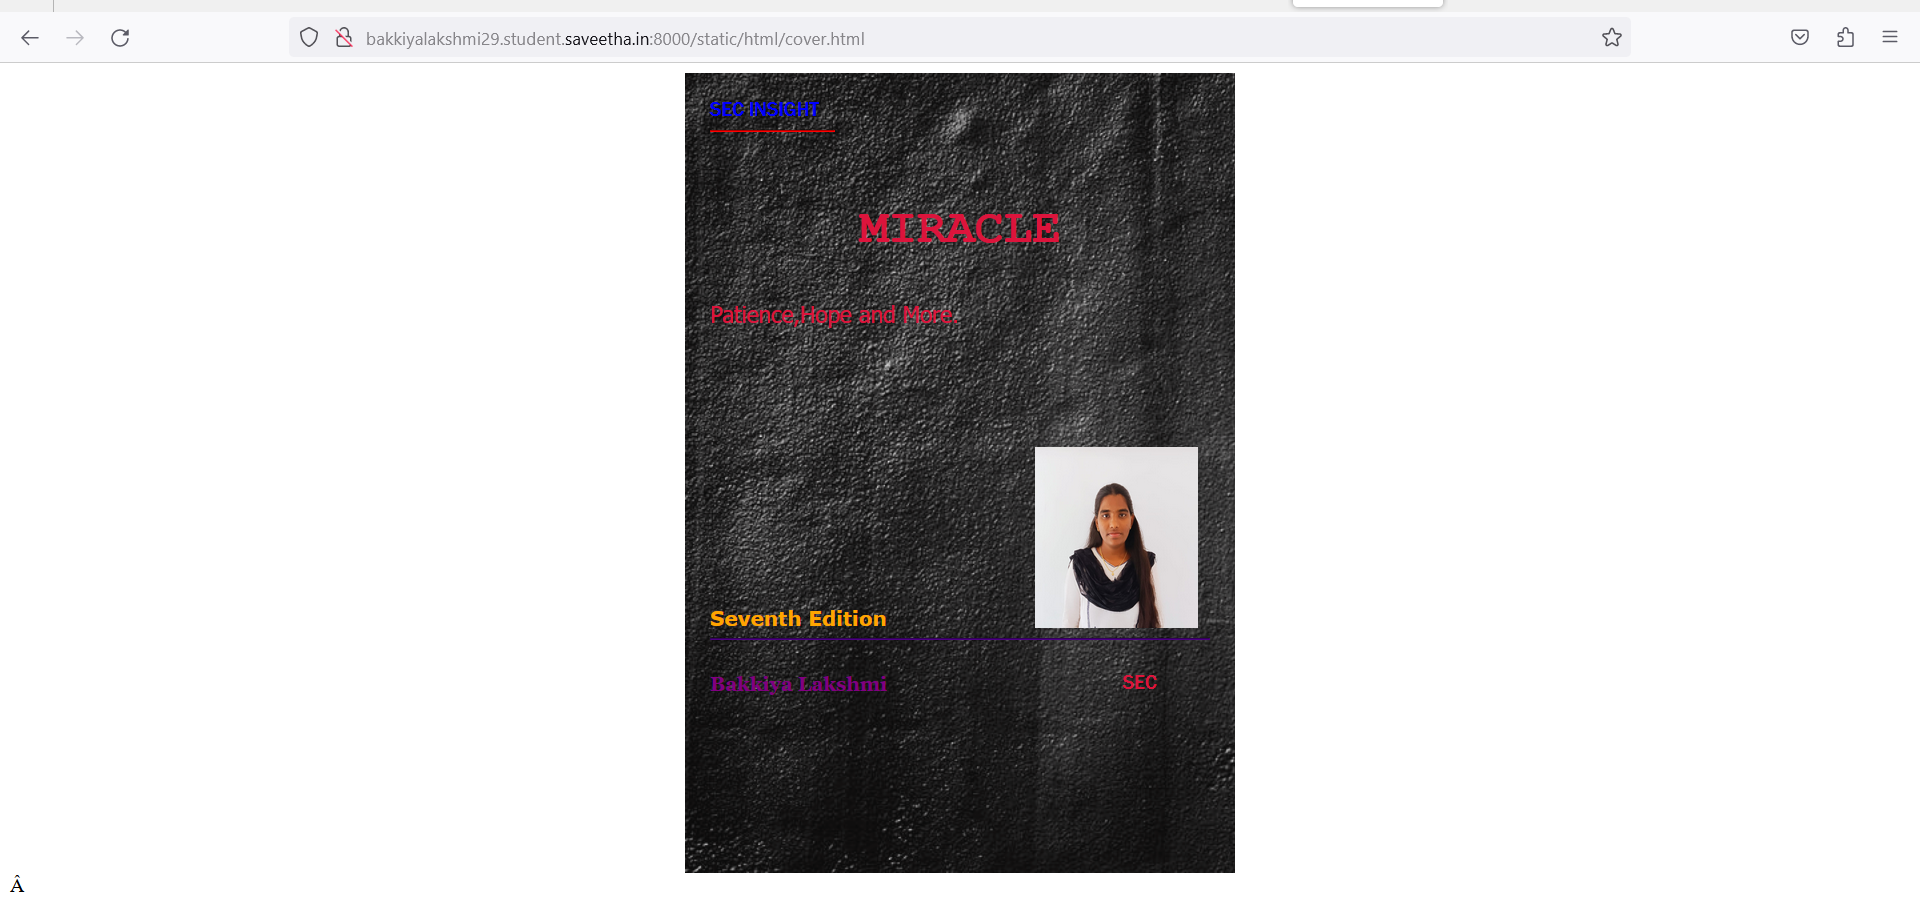
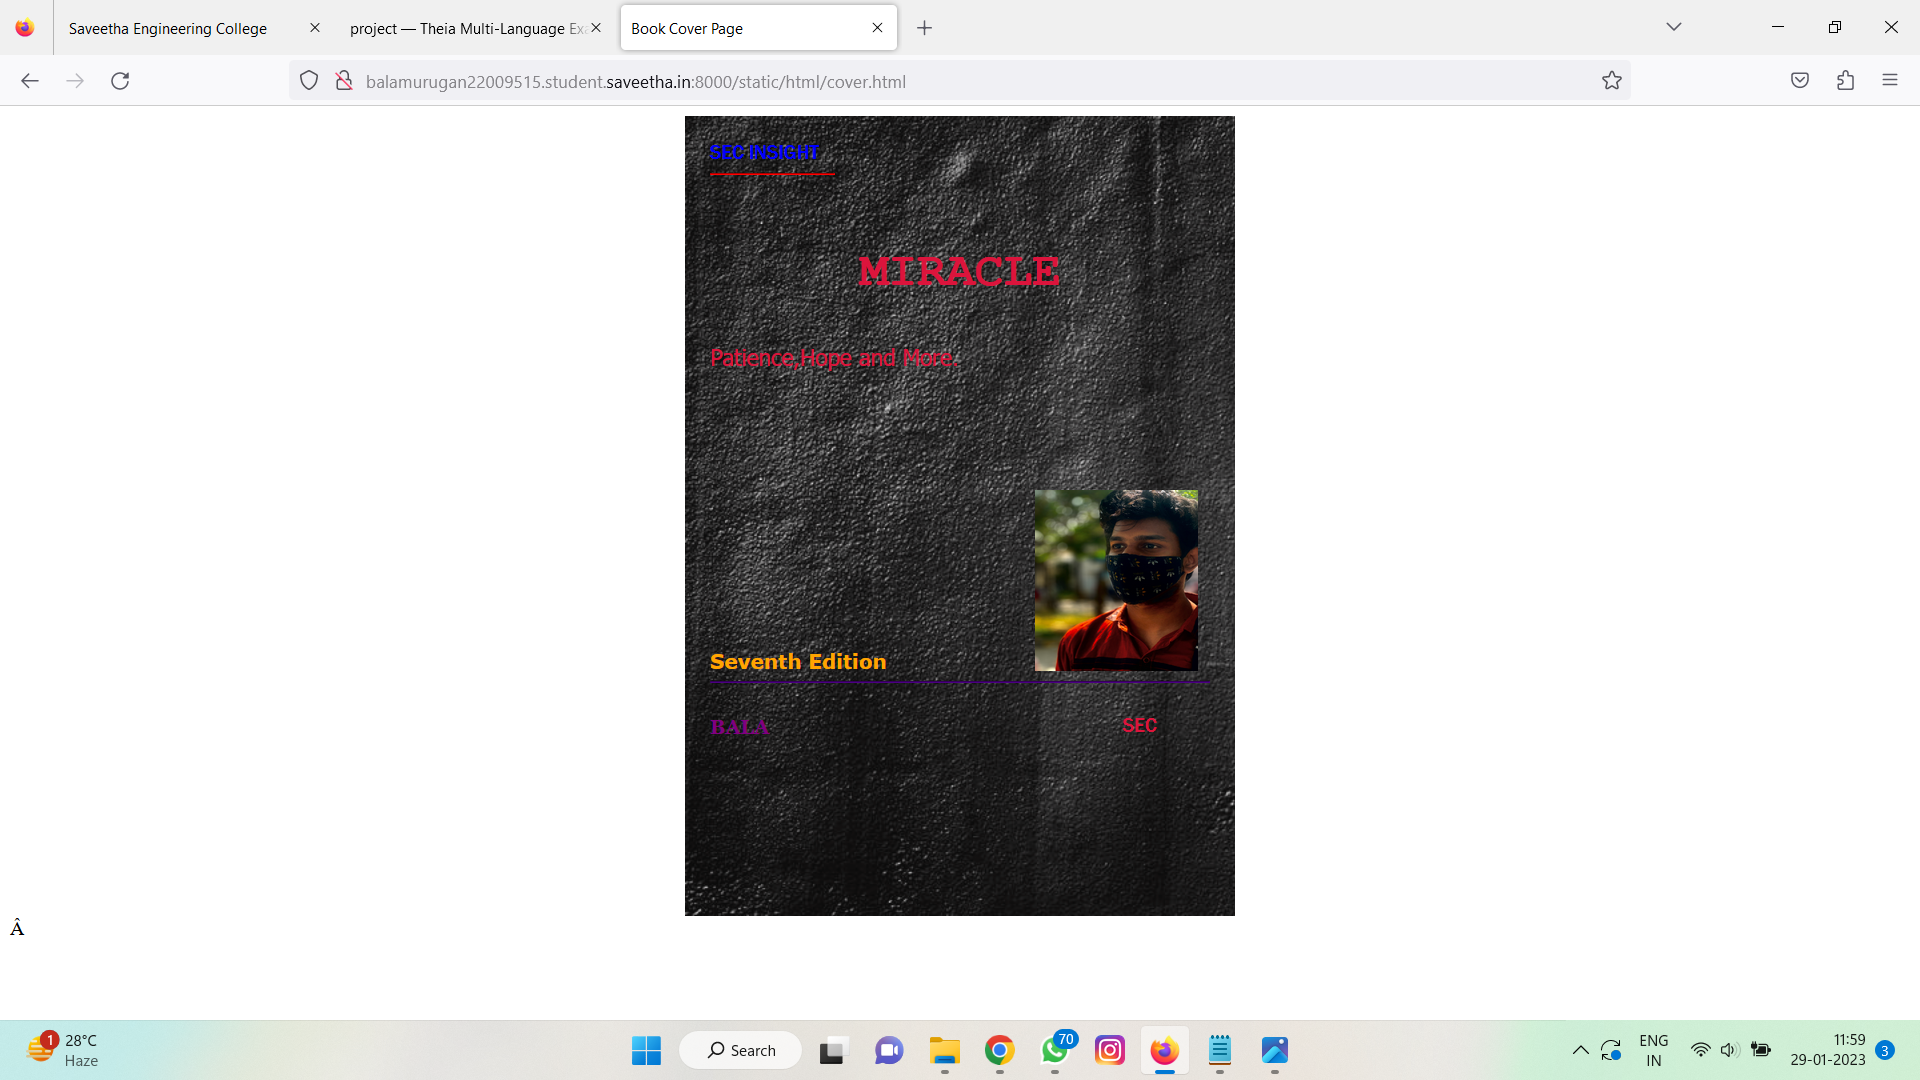
Success

diff --git a/Bala/static/html/cover.html b/Bala/static/html/cover.html
@@ -102,7 +102,7 @@
                 <hr style="color: indigo;">
             </div>
             <div class="author">
-               <p><b>Bakkiya Lakshmi</b></p>
+               <p><b>BALA</b></p>
             </div>
             <div class="pub">
                 SEC

diff --git a/Bala/Bala/settings.py b/Bala/Bala/settings.py
@@ -1,5 +1,5 @@
 """
-Django settings for bakkiyalakshmi project.
+Django settings for Bala project.
 
 Generated by 'django-admin startproject' using Django 3.1.1.
 
@@ -49,7 +49,7 @@ MIDDLEWARE = [
     'django.middleware.clickjacking.XFrameOptionsMiddleware',
 ]
 
-ROOT_URLCONF = 'bakkiyalakshmi.urls'
+ROOT_URLCONF = 'Bala.urls'
 
 TEMPLATES = [
     {
@@ -67,7 +67,7 @@ TEMPLATES = [
     },
 ]
 
-WSGI_APPLICATION = 'bakkiyalakshmi.wsgi.application'
+WSGI_APPLICATION = 'Bala.wsgi.application'
 
 
 # Database

diff --git a/Bala/Bala/asgi.py b/Bala/Bala/asgi.py
@@ -1,5 +1,5 @@
 """
-ASGI config for bakkiyalakshmi project.
+ASGI config for Bala project.
 
 It exposes the ASGI callable as a module-level variable named ``application``.
 
@@ -11,6 +11,6 @@ import os
 
 from django.core.asgi import get_asgi_application
 
-os.environ.setdefault('DJANGO_SETTINGS_MODULE', 'bakkiyalakshmi.settings')
+os.environ.setdefault('DJANGO_SETTINGS_MODULE', 'Bala.settings')
 
 application = get_asgi_application()

diff --git a/Bala/Bala/wsgi.py b/Bala/Bala/wsgi.py
@@ -1,5 +1,5 @@
 """
-WSGI config for bakkiyalakshmi project.
+WSGI config for Bala project.
 
 It exposes the WSGI callable as a module-level variable named ``application``.
 
@@ -11,6 +11,6 @@ import os
 
 from django.core.wsgi import get_wsgi_application
 
-os.environ.setdefault('DJANGO_SETTINGS_MODULE', 'bakkiyalakshmi.settings')
+os.environ.setdefault('DJANGO_SETTINGS_MODULE', 'Bala.settings')
 
 application = get_wsgi_application()

diff --git a/Bala/manage.py b/Bala/manage.py
@@ -6,7 +6,7 @@ import sys
 
 def main():
     """Run administrative tasks."""
-    os.environ.setdefault('DJANGO_SETTINGS_MODULE', 'bakkiyalakshmi.settings')
+    os.environ.setdefault('DJANGO_SETTINGS_MODULE', 'Bala.settings')
     try:
         from django.core.management import execute_from_command_line
     except ImportError as exc:

diff --git a/README.md b/README.md
@@ -6,9 +6,10 @@ To develop a website to display the cover page design of a book
 
 ### Step 1:
 Clone the Github repository and Create a Django admin interface.
-### Step 2:
 
+### Step 2:
 Write HTML and CSS herefor designing book cover page and execute them.
+
 ## Code:
 ```
 <!DOCTYPE html>
@@ -115,7 +116,7 @@ Write HTML and CSS herefor designing book cover page and execute them.
                 <hr style="color: indigo;">
             </div>
             <div class="author">
-               <p><b>Bakkiya Lakshmi</b></p>
+               <p><b>BALA</b></p>
             </div>
             <div class="pub">
                 SEC
